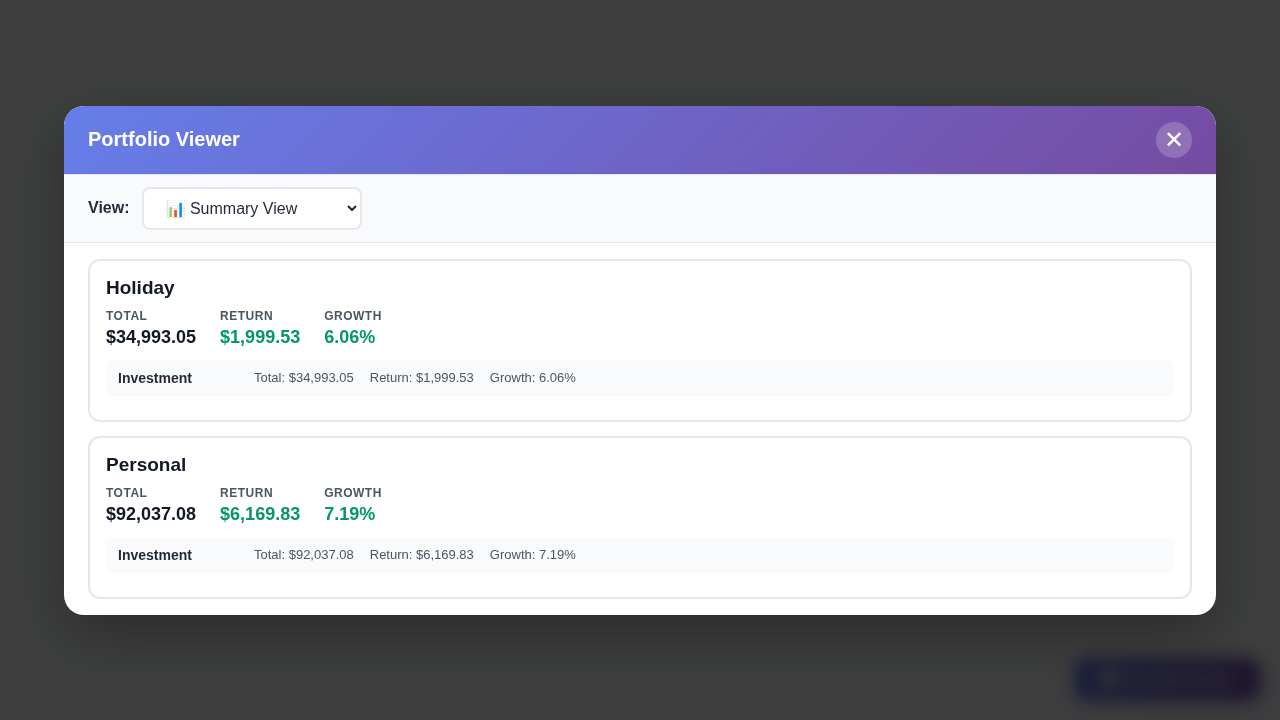
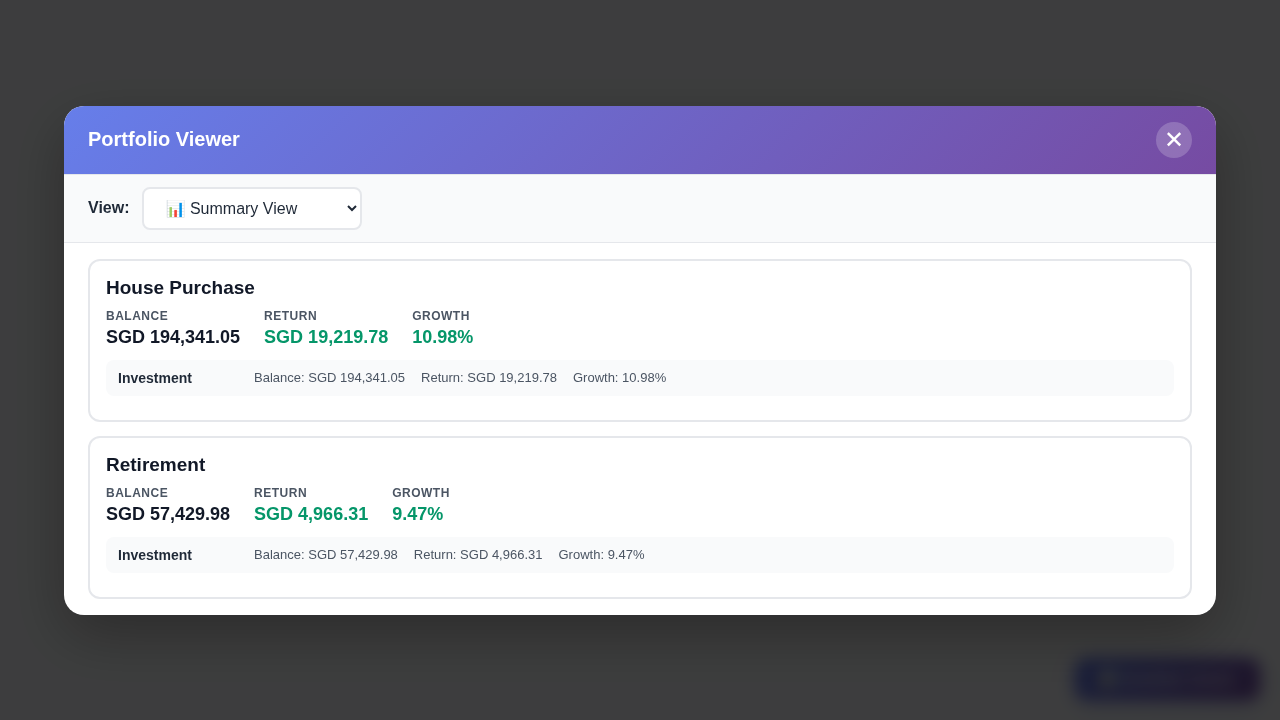
Update demo screenshots with new bucket configuration

diff --git a/demo/demo-clean.html b/demo/demo-clean.html
@@ -48,15 +48,18 @@
                 GM_setValue('api_performance', JSON.stringify(mockData.performance));
                 GM_setValue('api_investible', JSON.stringify(mockData.investible));
                 GM_setValue('api_summary', JSON.stringify(mockData.summary));
-                console.log('[Demo] Mock data loaded - Personal and Holiday buckets with core-satellite strategy');
+                console.log('[Demo] Mock data loaded - House Purchase and Retirement buckets with core-satellite strategy');
                 console.log('[Demo] Goals loaded:', mockData.performance.length);
+                
+                // Load userscript after data is ready
+                const script = document.createElement('script');
+                script.src = 'goal_portfolio_viewer_demo.user.js';
+                document.body.appendChild(script);
             })
             .catch(error => {
                 console.error('[Demo] Failed to load mock data:', error);
             });
     </script>
-    
-    <!-- Load modified userscript with demo mode enabled -->
-    <script src="goal_portfolio_viewer_demo.user.js"></script>
+
 </body>
 </html>

diff --git a/README.md b/README.md
@@ -1,13 +1,13 @@
 # Goal Portfolio Viewer
 
 ![Goal Portfolio Viewer - Summary View](docs/screenshot-summary.png)
-*Summary view showing Personal and Holiday buckets with ending balance, returns, and growth*
+*Summary view showing House Purchase and Retirement buckets with ending balance, returns, and growth*
 
-![Goal Portfolio Viewer - Personal Bucket Detail](docs/screenshot-personal-detail.png)
-*Personal bucket detail view with core-satellite goals: Core, Tech, China, Megatrends, Real Estate*
+![Goal Portfolio Viewer - House Purchase Bucket Detail](docs/screenshot-house-purchase-detail.png)
+*House Purchase bucket detail view with core-satellite goals: Core - Balanced, Megatrends, Tech, China*
 
-![Goal Portfolio Viewer - Holiday Bucket Detail](docs/screenshot-holiday-detail.png)
-*Holiday bucket detail view with core-satellite goals and individual performance metrics*
+![Goal Portfolio Viewer - Retirement Bucket Detail](docs/screenshot-retirement-detail.png)
+*Retirement bucket detail view with core-satellite goals and individual performance metrics*
 
 **Track core-satellite portfolios the way they were meant to be seen — clean, goal-aware, and entirely private.**
 
